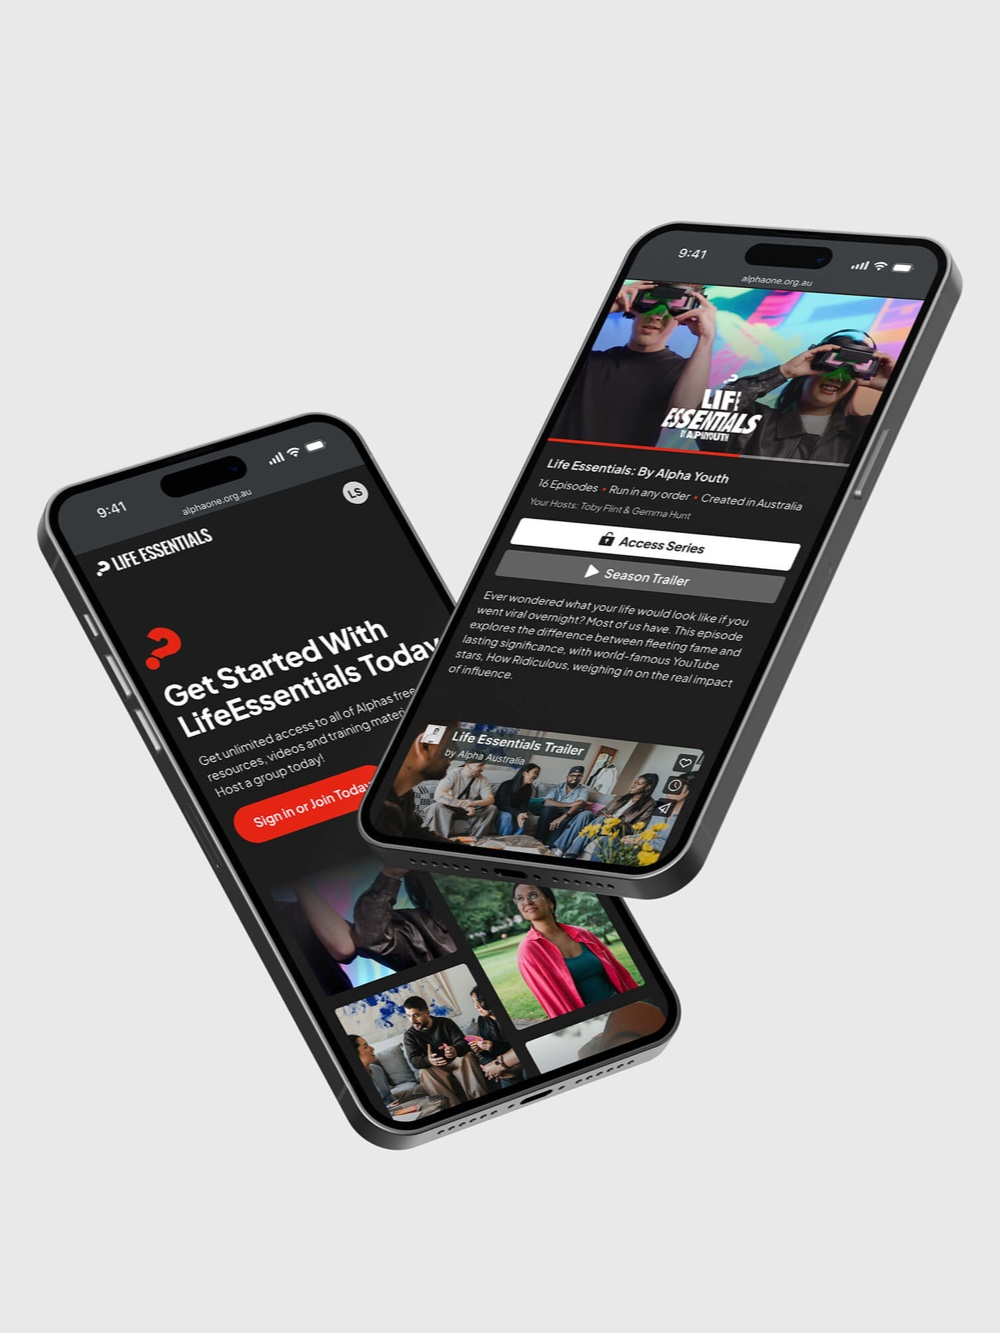
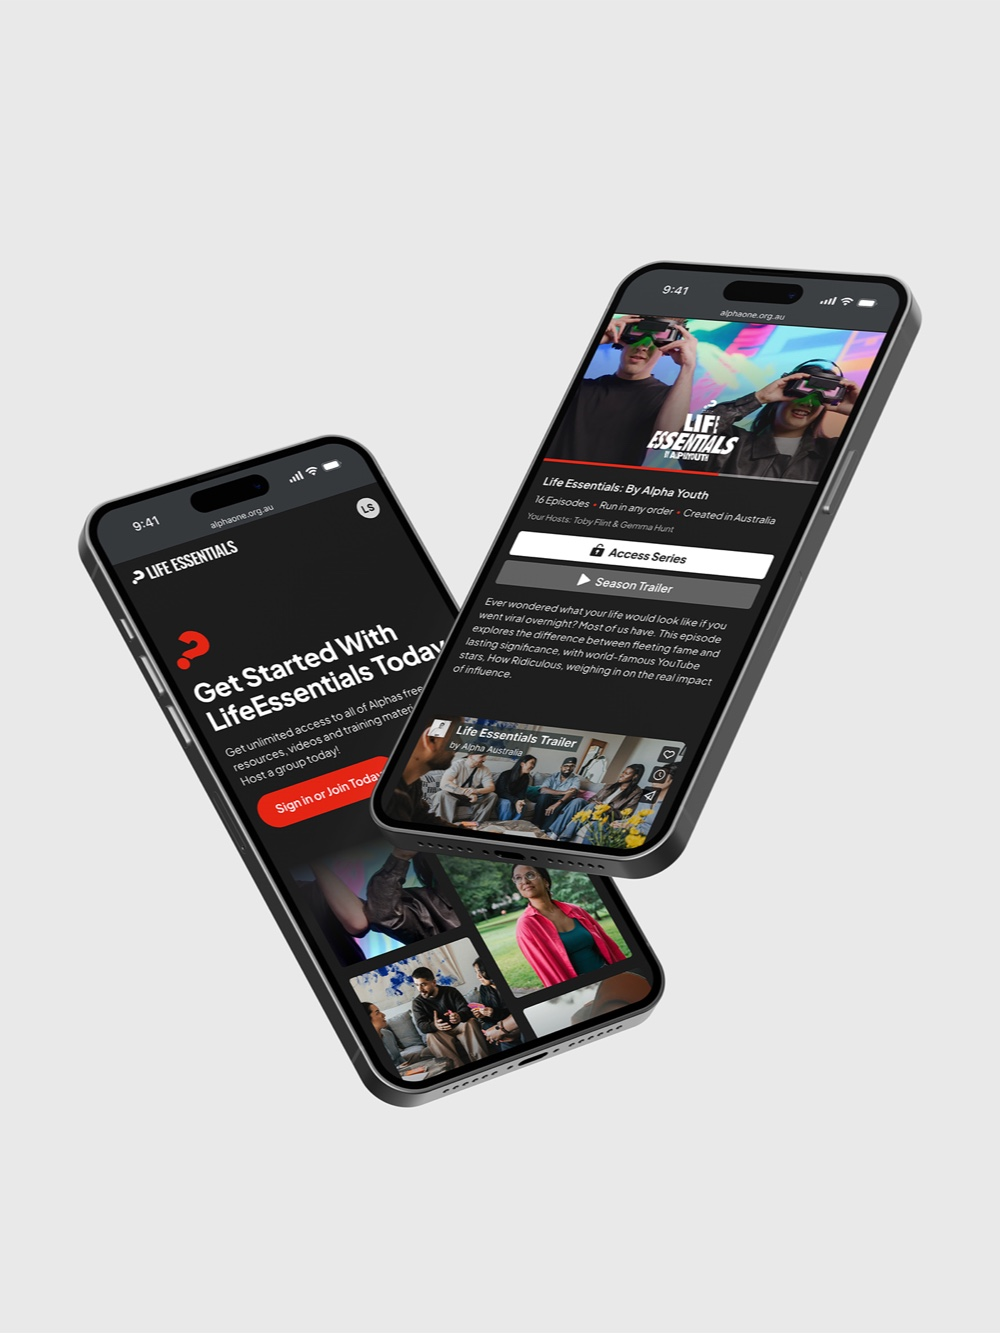
Alpha: new hero image

Changed region(s): [[0.031, 0.1538, 0.961, 0.8612], [0.403, 0.3998, 0.434, 0.4306]]

diff --git a/projects/alpha-life-essentials.html b/projects/alpha-life-essentials.html
@@ -12,11 +12,11 @@
   <meta property="og:title" content="Alpha Life Essentials — Kodu Design Lab">
   <meta property="og:description" content="Alpha Life Essentials — Video platform for connection. From the design journey of Lachlan Sarv, Lead UI/UX Designer at BEECH Agency, Newcastle NSW.">
   <meta property="og:url" content="https://www.kodudesignlab.com/projects/alpha-life-essentials">
-  <meta property="og:image" content="https://www.kodudesignlab.com/images/alpha-life-essentials/01-floatingphonesmain-2800.jpg">
+  <meta property="og:image" content="https://www.kodudesignlab.com/images/alpha-life-essentials/01-alphafloatingphones-3000.jpg">
   <meta name="twitter:card" content="summary_large_image">
   <meta name="twitter:title" content="Alpha Life Essentials — Kodu Design Lab">
   <meta name="twitter:description" content="Alpha Life Essentials — Video platform for connection. From the design journey of Lachlan Sarv, Lead UI/UX Designer at BEECH Agency, Newcastle NSW.">
-  <meta name="twitter:image" content="https://www.kodudesignlab.com/images/alpha-life-essentials/01-floatingphonesmain-2800.jpg">
+  <meta name="twitter:image" content="https://www.kodudesignlab.com/images/alpha-life-essentials/01-alphafloatingphones-3000.jpg">
   <script>
     (function () {
       try {

diff --git a/index.html b/index.html
@@ -137,7 +137,7 @@
 
       <a class="project-card" href="projects/alpha-life-essentials" data-project="alpha-life-essentials">
         <div class="project-card__media">
-          <img src="images/alpha-life-essentials/cover-500.jpg" srcset="images/alpha-life-essentials/cover-500.jpg 500w, images/alpha-life-essentials/cover-1000.jpg 1000w, images/alpha-life-essentials/cover-1500.jpg 1500w" sizes="(max-width: 699px) calc(90vw - 6px), (max-width: 1199px) calc(50vw - 25px), calc(16.66vw - 12px)"
+          <img src="images/alpha-life-essentials/cover-500.jpg" srcset="images/alpha-life-essentials/cover-500.jpg 500w, images/alpha-life-essentials/cover-1000.jpg 1000w, images/alpha-life-essentials/cover-1406.jpg 1406w" sizes="(max-width: 699px) calc(90vw - 6px), (max-width: 1199px) calc(50vw - 25px), calc(16.66vw - 12px)"
                alt="Alpha Life Essentials" loading="eager" decoding="async">
         </div>
         <div class="project-card__meta">

diff --git a/projects.js b/projects.js
@@ -285,15 +285,15 @@ window.KODU_PROJECTS = {
     "link": "https://app.lifeessentials.com.au/",
     "images": [
       {
-        "src": "images/alpha-life-essentials/01-floatingphonesmain",
+        "src": "images/alpha-life-essentials/01-alphafloatingphones",
         "widths": [
           1200,
           2000,
-          2800
+          3000
         ],
         "cols": 1,
         "aspect": "16 / 10",
-        "alt": "Alpha Life Essentials: Floatingphonesmain"
+        "alt": "Alpha Life Essentials: Alphafloatingphones"
       },
       {
         "src": "images/alpha-life-essentials/02-website-layout",
